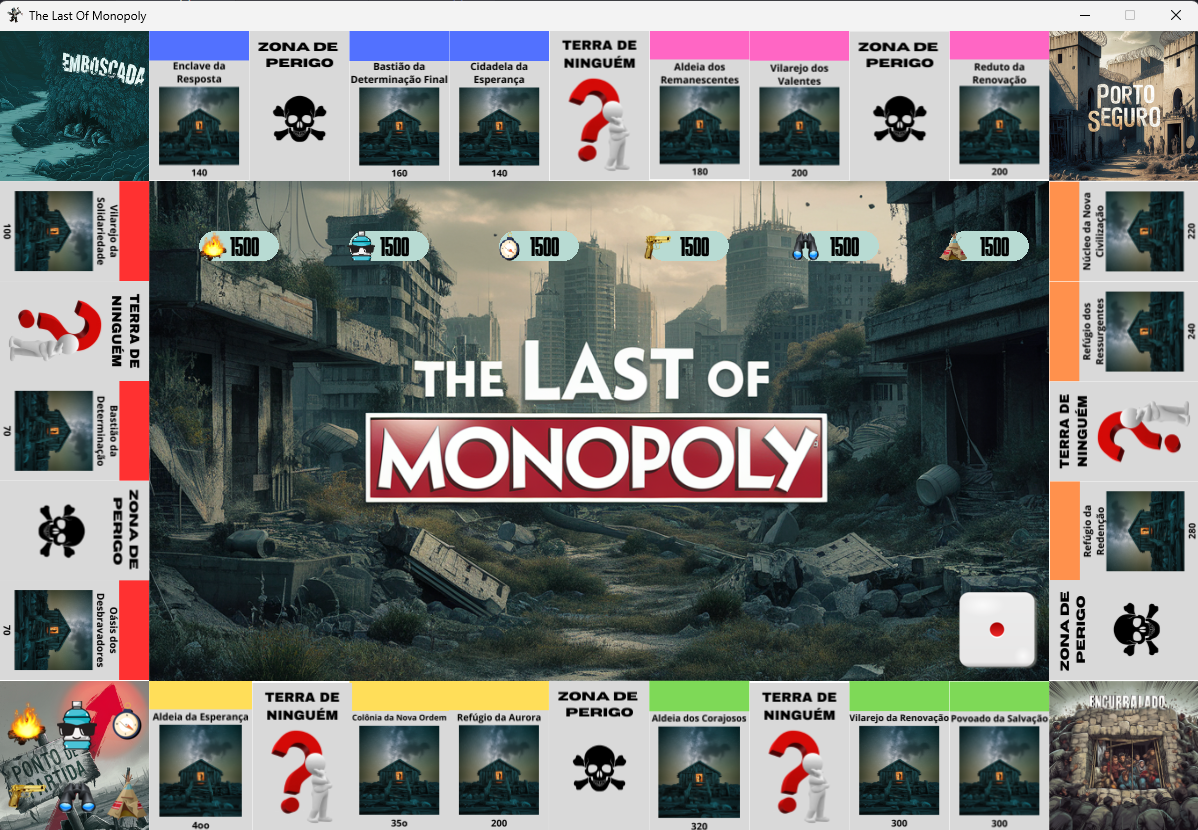
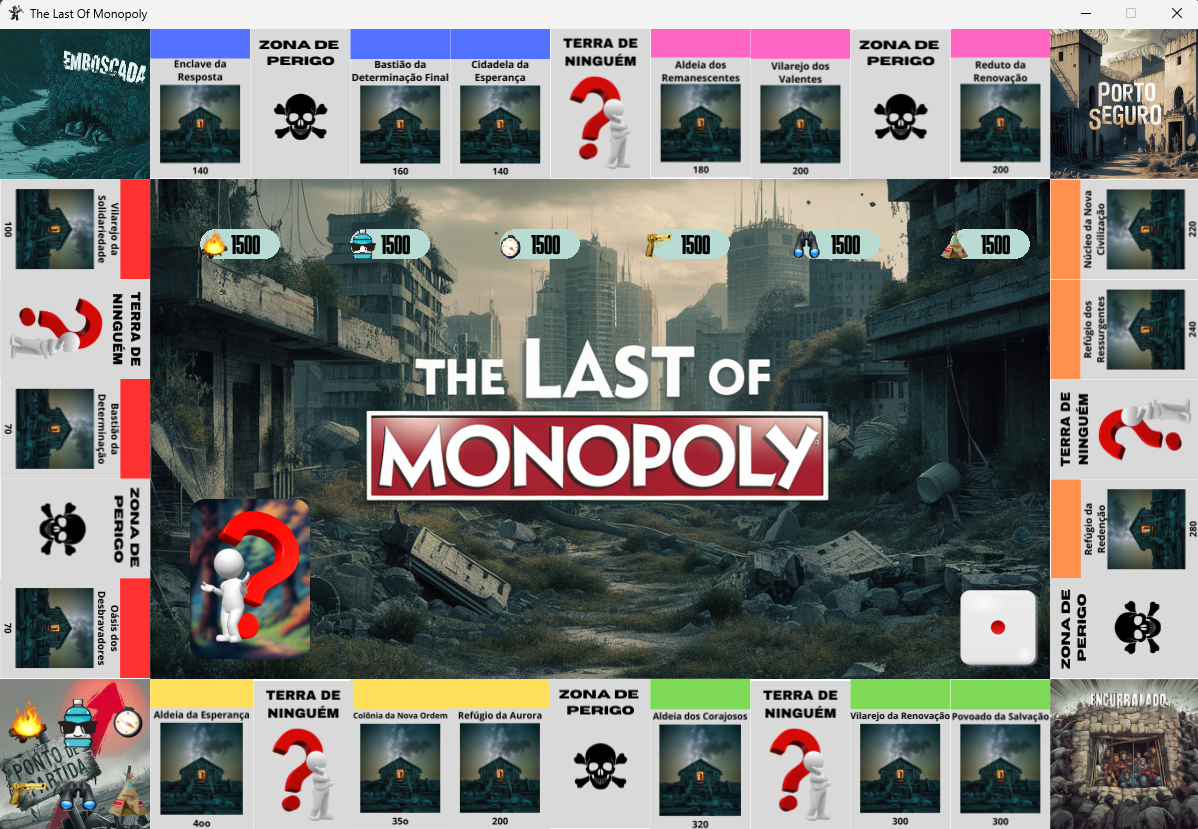
add v1.6
add v1.6

diff --git a/carta.py b/carta.py
@@ -1,0 +1,32 @@
+import pygame
+from utilitario import *
+import random
+
+class Carta(pygame.sprite.Sprite):
+    def __init__(self):
+        super().__init__()
+        self.imagem_capa = get_cartacapa() # Carrega a imagem da capa da carta
+        self.imagens_cartas = list(range(1, 21)) # Lista com os números das 20 cartas
+        self.image = self.imagem_capa
+        self.rect = self.image.get_rect()
+        self.rect.center = (250, 550) # Posição da carta na tela do jogo
+        self.mostrando_capa = True
+        self.cartas_selecionadas = [] # Lista para armazenar os números das cartas já selecionadas
+
+    # Método para trocar a carta exibida
+    def trocar_carta(self):
+        if self.mostrando_capa:
+             # Se a carta exibida for a capa, seleciona uma carta aleatória não selecionada
+            cartas_disponiveis = list(set(self.imagens_cartas) - set(self.cartas_selecionadas))
+            if cartas_disponiveis: # Verifica se ainda há cartas disponíveis
+                numero_carta = random.choice(cartas_disponiveis)
+                self.cartas_selecionadas.append(numero_carta) # Adiciona a carta selecionada à lista de cartas selecionadas
+                self.image = get_carta(numero_carta) # Carrega a imagem correspondente ao número da carta
+                self.mostrando_capa = False # Muda para mostrar a carta selecionada
+        else:
+            self.image = self.imagem_capa # Mostra a capa da carta
+            self.mostrando_capa = True # Muda para mostrar a capa novamente
+
+    def draw(self, screen):
+        # Método para desenhar a carta na tela
+        screen.blit(self.image, self.rect)

diff --git a/tela_jogo.py b/tela_jogo.py
@@ -2,6 +2,7 @@ import pygame, sys
 from utilitario import *
 from dado import *
 from jogador import *
+from carta import *
 
 #Imagem de fundo aqui
 BGTABULEIRO = get_tabuleiro()
@@ -17,6 +18,9 @@ def jogar(screen, qtd_jogadores):
      # Obtém a fonte para renderizar o dinheiro dos jogadores
     font = get_fonte_titulo(24)
 
+    # Criar uma instância da carta
+    carta = Carta()
+
     # GAME LOOP
     while True:
         
@@ -27,6 +31,8 @@ def jogar(screen, qtd_jogadores):
                 if event.button == 1: # Botão esquerdo do mouse
                     if sprite_dado.rect.collidepoint(event.pos): # Verifica se o botão do dado foi clicado
                         sprite_dado.rolar() # Rola o dado
+                    if carta.rect.collidepoint(event.pos): # Verifica se o clique foi na área da carta
+                        carta.trocar_carta() # Troca a imagem da carta
                 if event.button == 3: # Botão direito do mouse ( TIRAR ISSO DEPOIS )
                     pygame.quit() # Fecha o pygame
                     sys.exit() 
@@ -41,6 +47,8 @@ def jogar(screen, qtd_jogadores):
 
         # Desenha o dado na tela
         sprite_dado.draw(screen)
+
+        carta.draw(screen)
 
         # Atualiza a tela do jogo
         pygame.display.update()

diff --git a/utilitario.py b/utilitario.py
@@ -32,3 +32,9 @@ def get_icone():
 #Carrega e retorna as imagens das faces dos dados
 def get_imagem_dados():
     return [pygame.image.load(f"assets/dado{i}.png") for i in range(1, 7)]
+
+def get_cartacapa():
+    return pygame.image.load("assets/cartas/carta1.png")
+
+def get_carta(numero):
+    return pygame.image.load(f"assets/cartas/carta{numero}.png")

diff --git a/README.md b/README.md
@@ -26,6 +26,9 @@ Peões já são desenhados na tela_jogo de acordo com a qtd de jogadores definid
 
 Suprimentos dos jogadores são desenhados na tela do jogo também, de modo a acompanhar o quanto ele vai gastando, inicialmente com 1500
 
+Cartas já são desenhadas na tela do jogo, até o momento a lógica da carta é a seguinte: inicia com a capa da carta, ao ser clicada mostra uma carta de luz no fim do túnel (sorte) ou armadilhas do destino (azar) de forma aleatória. Além disso, qnd uma carta eh exibida, ela nao eh mais selecionada pra ser exibida. Até o momento tem um total de 20 cartas, podem ser adicionadas mais.
+|-> futuramente tem q alterar essa lógica de modo a utilizar a carta somente qnd o jogador cair na casa "Terra de Ninguém" e também implementar a funcionalidade ligada a ela (remover ou adicionar suprimentos ao jogador)
+
 **O que fazer a seguir:**
 - Pensar se essa forma de construir o tabuleiro da certo! Se for utilzar a ideia que ta implementada no Tabuleiro tem q trocar os valores de aluguel e a lógica de cada espaço (o que acontece quando cai na casa terra de ninguém, no porto seguro...)
 - Implementar uma classe Rodada, de modo a controlar o turno de cada jogador
